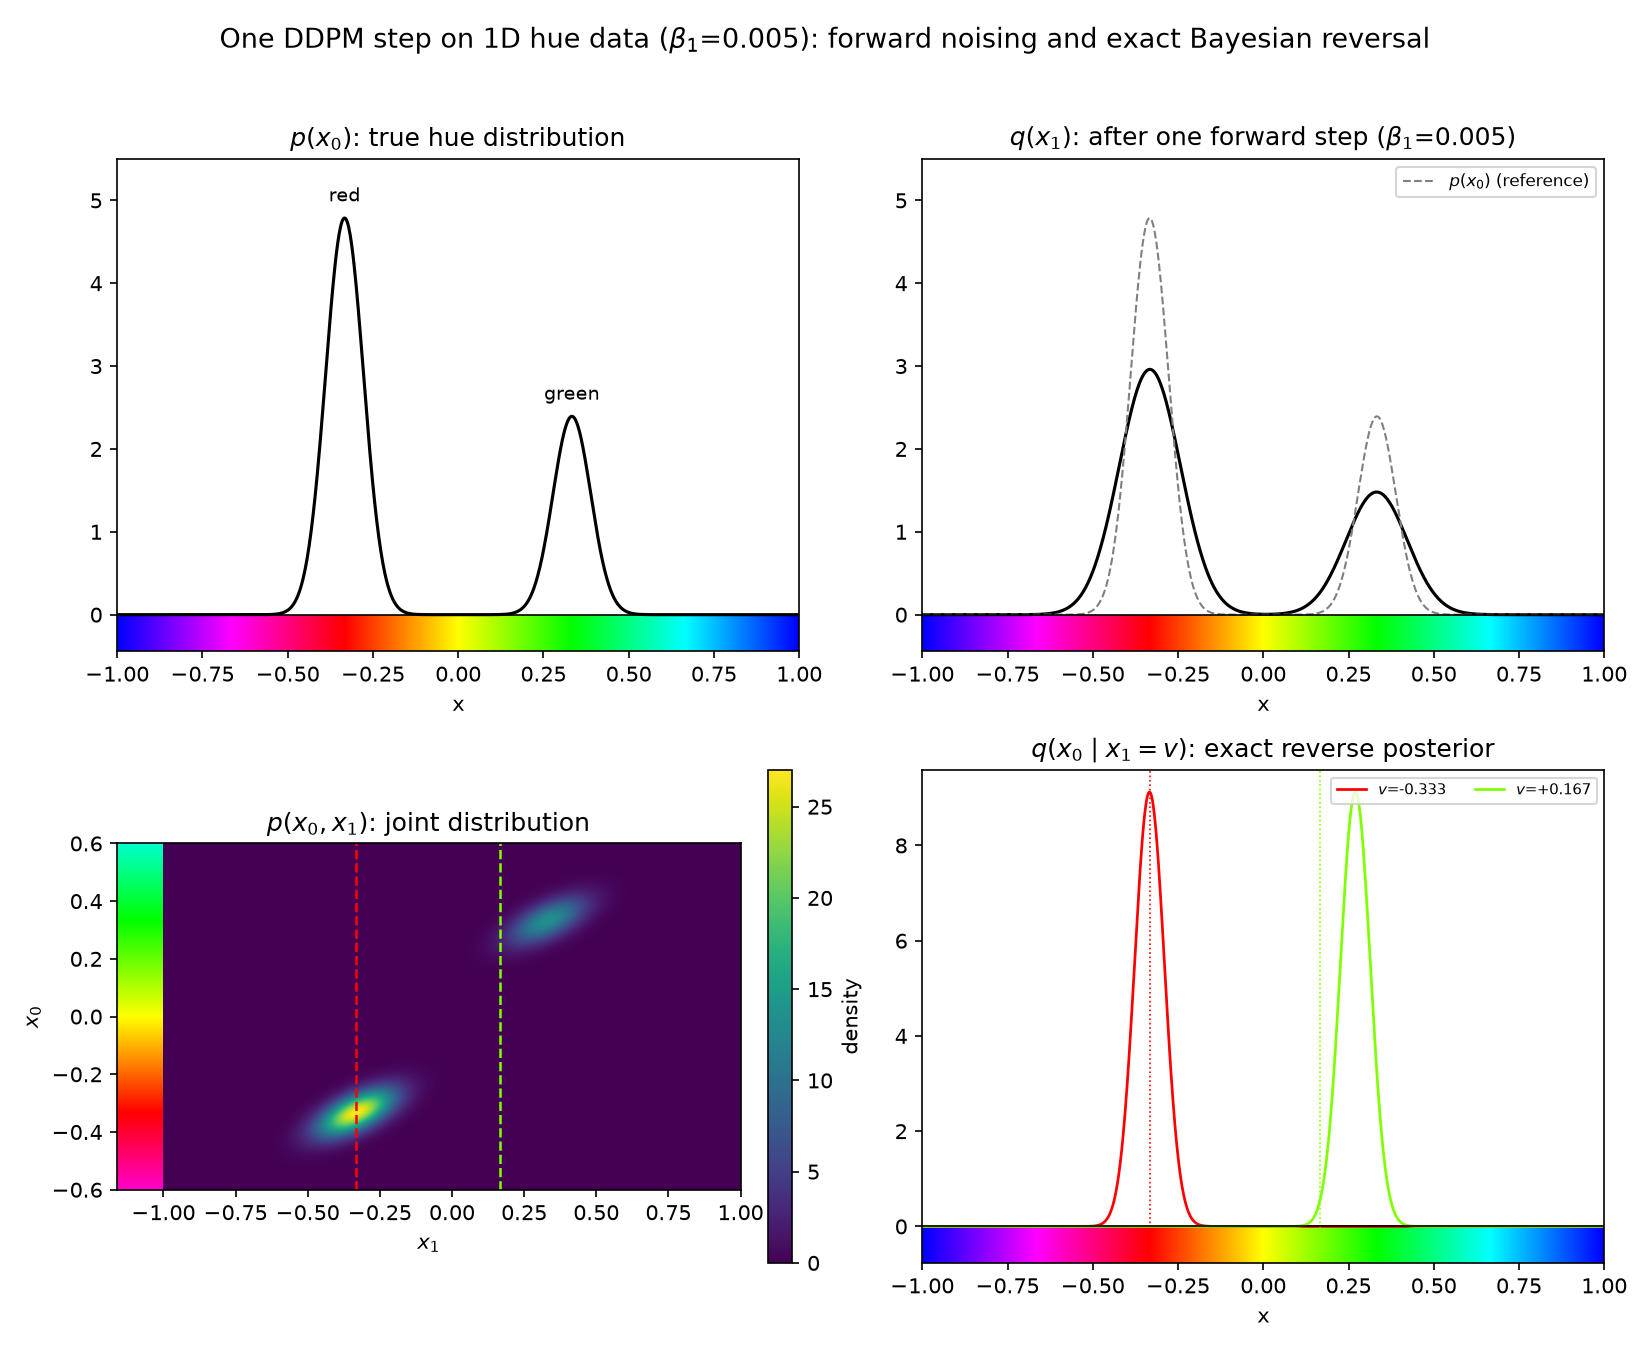
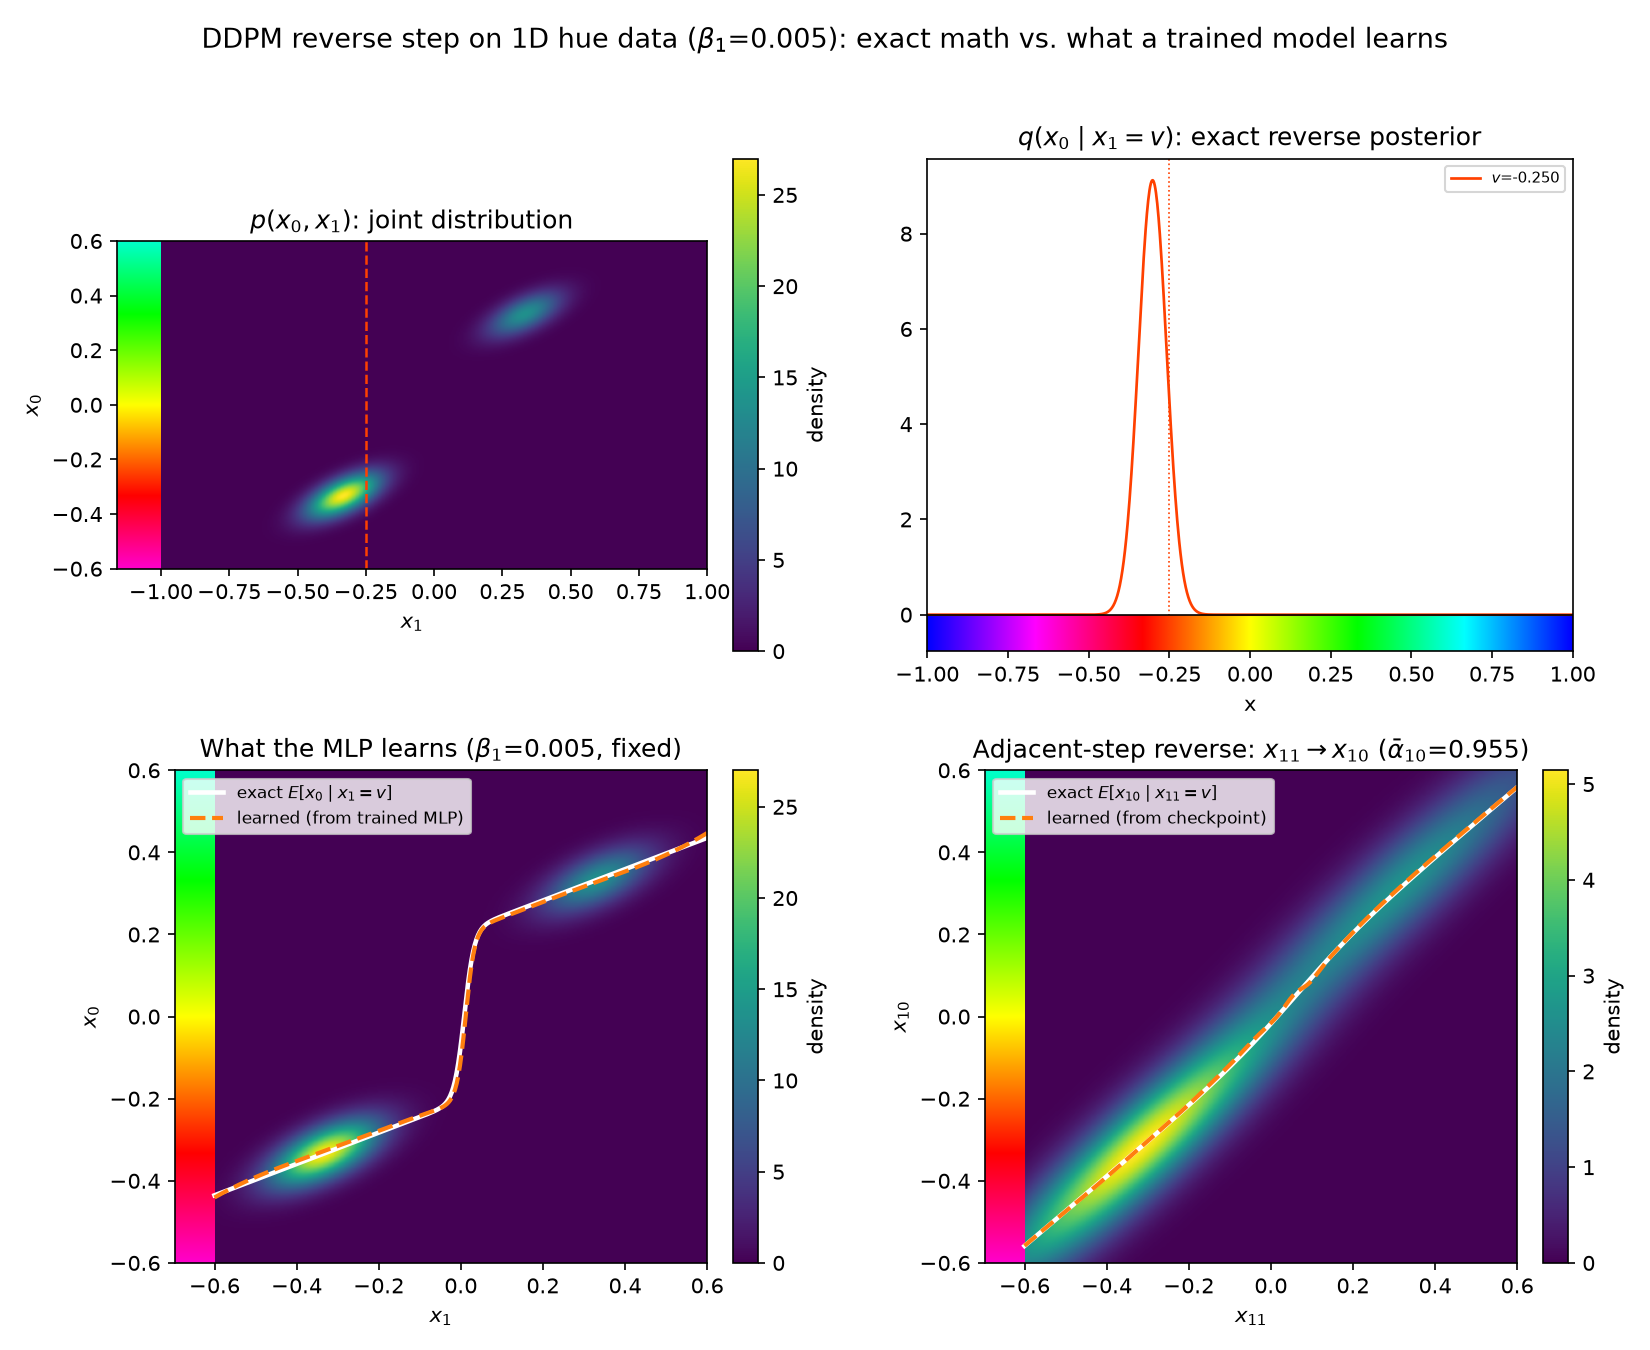
Replace step0_backward's top two panels with learned-vs-exact curve panels
New panel 1: p(x0,x1) joint (single example v=-0.25). New panel 2: exact
reverse posterior. New panels 3-4: the learned_curve_on_joint and
learned_curve_on_joint_adjacent comparisons (single-step MLP and the
full-schedule checkpoint's adjacent-step curve, t=10->11), placed below,
learned_curve_on_joint on the left. These two panels are independent of
beta1 -- they always retrain/reload their own fixed-noise-level models.

step0_forward_backward_large_noise.py no longer reuses step0_backward's
main(): panels 3-4 there are unrelated to its large-beta1 point, so it
keeps its own self-contained copy of the original 4-panel (p(x0), q(x1),
joint, posterior) layout instead.

diff --git a/step0_backward.py b/step0_backward.py
@@ -1,20 +1,31 @@
-"""Demo: one forward diffusion step on a 1D hue distribution, and why it can
-be reversed exactly when the data distribution is known.
+"""Demo: the exact reverse step on a 1D hue distribution, and what a trained
+model actually learns of it.
 
 Produces output/step0_backward.png with four panels:
-  1. p(x0)             -- the true hue distribution (red / green bumps)
-  2. q(x1)             -- after one forward noising step
-  3. p(x0, x1)         -- their joint distribution: a horizontal slice at
-                          x1=v (dashed lines, colors matching panel 4) is,
-                          once renormalized, exactly the posterior curve
-                          shown in panel 4 for that v.
-  4. q(x0 | x1=v)      -- exact reverse posterior, for several example v
+  1. p(x0, x1)         -- the joint distribution, sliced at x1=v (dashed
+                          line, color matching panel 2); once renormalized,
+                          that slice is exactly the posterior curve shown
+                          in panel 2 for that v.
+  2. q(x0 | x1=v)      -- exact reverse posterior, for a single example v
+  3. p(x0, x1)         -- same joint as panel 1, but overlaid with the
+                          exact E[x0|x1=v] curve and the curve implied by a
+                          freshly trained single-step MLP (learned_curve_on_joint.py)
+  4. p(x_t, x_{t+1})   -- joint for a pair of ADJACENT intermediate steps
+                          (t=10 -> 11) deep in the full T=100 schedule,
+                          overlaid with the exact and learned E[x_t|x_{t+1}]
+                          curves (learned_curve_on_joint_adjacent.py)
+
+Panels 3 and 4 are independent of the beta1 parameter below -- they always
+retrain/reload their own models at their own fixed noise level -- only
+panels 1 and 2 change shape with beta1.
 
 main() takes beta1 as a parameter (default matches the original demo
-value) so the same figure can be regenerated at other noise levels, e.g.
-step0_forward_backward_large_noise.py calls it with a deliberately too
-large beta1. The plotted x-range widens automatically with beta1, since a
-large beta1 spreads q(x1) far beyond the original data's range.
+value) so panels 1-2 can be regenerated at other noise levels; the plotted
+x1-range widens automatically with beta1, since a large beta1 spreads
+q(x1) far beyond the original data's range. (step0_forward_backward_large_noise.py
+no longer reuses this main() -- it kept its own copy of this script's
+pre-learned-curve 4-panel layout, since panels 3-4 here are unrelated to
+its large-beta1 point.)
 """
 
 import os
@@ -24,11 +35,21 @@ matplotlib.use("Agg")
 import matplotlib.pyplot as plt
 import numpy as np
 
-from ddpm_step import joint_pdf, marginal_x1_params, posterior_pdf
-from hue_gmm import MEANS, NAMES, STDS, gmm_pdf, normal_pdf, x_to_rgb
+import train_denoiser
+from ddpm_step import (
+    exact_conditional_mean_adjacent,
+    joint_pdf,
+    joint_pdf_adjacent,
+    posterior_mean_curve,
+    posterior_pdf,
+)
+from hue_gmm import MEANS, STDS, gmm_pdf, x_to_rgb
+from multistep_model import load_trained, make_inputs
+from schedule import ALPHA_BARS, ALPHAS, BETAS, T
 
 BETA1 = 0.005
 OUT_DIR = "output"
+T_STEP = 10  # examine the adjacent transition x_{T_STEP} -> x_{T_STEP+1}
 
 
 def hue_strip(ax, y0, y1, n=600):
@@ -56,38 +77,20 @@ def main(beta1=BETA1, out_path=None):
     os.makedirs(OUT_DIR, exist_ok=True)
     a1 = 1.0 - beta1
 
-    # Plot range for the 1D curve panels (p(x0), q(x1), reverse posterior):
-    # wide enough that q(x1) isn't clipped even when beta1 is large.
+    # Plot range for the reverse-posterior curve panel: wide enough that
+    # q(x1) isn't clipped even when beta1 is large.
     x1_std_est = np.sqrt(a1 * STDS.max() ** 2 + beta1)
     plot_range = max(1.0, np.abs(MEANS).max() * np.sqrt(a1) + 4.5 * x1_std_est)
     x_grid = np.linspace(-plot_range, plot_range, 1000)
+    p0 = gmm_pdf(x_grid)
 
     fig, axes = plt.subplots(2, 2, figsize=(11, 9))
 
-    # --- panel 1: p(x0) ---
-    ax = axes[0, 0]
-    p0 = gmm_pdf(x_grid)
-    ax.plot(x_grid, p0, color="black", linewidth=1.5)
-    setup_axis(ax, r"$p(x_0)$: true hue distribution", 1.15 * p0.max(), plot_range)
-    for mu, name in zip(MEANS, NAMES):
-        ax.annotate(name, (mu, gmm_pdf(np.array([mu]))[0]), textcoords="offset points",
-                    xytext=(0, 8), ha="center", fontsize=9)
-
-    # --- panel 2: q(x1) after one forward step ---
-    ax = axes[0, 1]
-    w1, m1, s1 = marginal_x1_params(beta1)
-    q1 = (w1 * normal_pdf(x_grid[..., None], m1, s1)).sum(-1)
-    ax.plot(x_grid, q1, color="black", linewidth=1.5)
-    ax.plot(x_grid, p0, color="gray", linewidth=1.0, linestyle="--", label=r"$p(x_0)$ (reference)")
-    setup_axis(ax, rf"$q(x_1)$: after one forward step ($\beta_1$={beta1:g})", 1.15 * max(p0.max(), q1.max()), plot_range)
-    ax.legend(fontsize=8, loc="upper right")
-
-    # --- compute exact reverse posterior curves (used by panels 3 and 4) ---
-    example_vs = [-1 / 3, 1 / 6]
+    example_vs = [-0.25]
     example_colors = [x_to_rgb(v) for v in example_vs]
 
-    # --- panel 3: joint distribution p(x0, x1) ---
-    ax = axes[1, 0]
+    # --- panel 1: joint distribution p(x0, x1) ---
+    ax = axes[0, 0]
     lim0 = 0.6  # x0's own range never changes with beta1
     lim1 = plot_range  # x1's range does
     grid0 = np.linspace(-lim0, lim0, 400)
@@ -108,18 +111,83 @@ def main(beta1=BETA1, out_path=None):
     ax.set_xlabel(r"$x_1$")
     ax.set_ylabel(r"$x_0$")
 
-    # --- panel 4: exact reverse posterior q(x0 | x1=v) for several v ---
-    ax = axes[1, 1]
-    ymax4 = p0.max()
+    # --- panel 2: exact reverse posterior q(x0 | x1=v) ---
+    ax = axes[0, 1]
+    ymax2 = p0.max()
     for v, color in zip(example_vs, example_colors):
         post = posterior_pdf(x_grid, v, beta1)
-        ymax4 = max(ymax4, post.max())
+        ymax2 = max(ymax2, post.max())
         ax.plot(x_grid, post, color=color, linewidth=1.3, label=rf"$v$={v:+.3f}")
         ax.axvline(v, color=color, linewidth=0.8, linestyle=":")
-    setup_axis(ax, r"$q(x_0 \mid x_1=v)$: exact reverse posterior", 1.05 * ymax4, plot_range)
+    setup_axis(ax, r"$q(x_0 \mid x_1=v)$: exact reverse posterior", 1.05 * ymax2, plot_range)
     ax.legend(fontsize=7, loc="upper right", ncol=2)
 
-    fig.suptitle(rf"One DDPM step on 1D hue data ($\beta_1$={beta1:g}): forward noising and exact Bayesian reversal",
+    # --- panel 3: learned_curve_on_joint -- single-step model vs. exact curve ---
+    ax = axes[1, 0]
+    rng = np.random.default_rng(0)
+    denoiser_model, denoiser_losses = train_denoiser.train(rng)
+    print(f"[panel 3] single-step model final training loss (mean of last 100 iters): "
+          f"{np.mean(denoiser_losses[-100:]):.4f}")
+
+    lc_grid = np.linspace(-lim0, lim0, 400)
+    lc_x0, lc_x1 = np.meshgrid(lc_grid, lc_grid, indexing="ij")
+    lc_joint = joint_pdf(lc_x0, lc_x1, train_denoiser.BETA1)
+    lc_v = np.linspace(-lim0, lim0, 300)
+    lc_exact = posterior_mean_curve(lc_v, train_denoiser.BETA1)
+    lc_eps_hat = denoiser_model.predict(lc_v[:, None])[:, 0]
+    lc_learned = (lc_v - np.sqrt(train_denoiser.BETA1) * lc_eps_hat) / np.sqrt(train_denoiser.A1)
+
+    strip_w3 = 0.08 * 2 * lim0
+    ax.set_xlim(-lim0 - strip_w3, lim0)
+    ax.set_ylim(-lim0, lim0)
+    im3 = ax.imshow(lc_joint, origin="lower", extent=[-lim0, lim0, -lim0, lim0], aspect="auto", cmap="viridis")
+    hue_strip_vertical(ax, -lim0 - strip_w3, -lim0)
+    ax.set_aspect("equal")
+    ax.plot(lc_v, lc_exact, color="white", linewidth=2.2, label=r"exact $E[x_0 \mid x_1=v]$")
+    ax.plot(lc_v, lc_learned, color="tab:orange", linewidth=2.0, linestyle="--",
+            label="learned (from trained MLP)")
+    fig.colorbar(im3, ax=ax, fraction=0.046, pad=0.04, label="density")
+    ax.set_xlabel(r"$x_1$")
+    ax.set_ylabel(r"$x_0$")
+    ax.set_title(rf"What the MLP learns ($\beta_1$={train_denoiser.BETA1:g}, fixed)")
+    ax.legend(fontsize=8, loc="upper left")
+
+    # --- panel 4: learned_curve_on_joint_adjacent -- multi-step model vs. exact curve ---
+    ax = axes[1, 1]
+    multistep = load_trained()
+
+    alpha_bar_t = ALPHA_BARS[T_STEP - 1]      # x_t's own cumulative signal fraction
+    alpha_tp1 = ALPHAS[T_STEP]                # single-step signal fraction, t -> t+1
+    beta_tp1 = BETAS[T_STEP]
+    alpha_bar_tp1 = ALPHA_BARS[T_STEP]        # x_{t+1}'s cumulative signal fraction
+
+    adj_grid = np.linspace(-lim0, lim0, 400)
+    x_t_grid, x_tp1_grid = np.meshgrid(adj_grid, adj_grid, indexing="ij")
+    adj_joint = joint_pdf_adjacent(x_t_grid, x_tp1_grid, alpha_bar_t, alpha_tp1)
+
+    adj_v = np.linspace(-lim0, lim0, 300)
+    adj_exact = exact_conditional_mean_adjacent(adj_v, alpha_bar_t, alpha_tp1)
+    t_norm = np.full_like(adj_v, (T_STEP + 1) / T)
+    adj_eps_hat = multistep.predict(make_inputs(adj_v, t_norm))[:, 0]
+    adj_learned = (adj_v - (beta_tp1 / np.sqrt(1.0 - alpha_bar_tp1)) * adj_eps_hat) / np.sqrt(alpha_tp1)
+
+    strip_w4 = 0.08 * 2 * lim0
+    ax.set_xlim(-lim0 - strip_w4, lim0)
+    ax.set_ylim(-lim0, lim0)
+    im4 = ax.imshow(adj_joint, origin="lower", extent=[-lim0, lim0, -lim0, lim0], aspect="auto", cmap="viridis")
+    hue_strip_vertical(ax, -lim0 - strip_w4, -lim0)
+    ax.set_aspect("equal")
+    ax.plot(adj_v, adj_exact, color="white", linewidth=2.2,
+            label=rf"exact $E[x_{{{T_STEP}}} \mid x_{{{T_STEP + 1}}}=v]$")
+    ax.plot(adj_v, adj_learned, color="tab:orange", linewidth=2.0, linestyle="--",
+            label="learned (from checkpoint)")
+    fig.colorbar(im4, ax=ax, fraction=0.046, pad=0.04, label="density")
+    ax.set_xlabel(rf"$x_{{{T_STEP + 1}}}$")
+    ax.set_ylabel(rf"$x_{{{T_STEP}}}$")
+    ax.set_title(rf"Adjacent-step reverse: $x_{{{T_STEP + 1}}} \to x_{{{T_STEP}}}$ ($\bar\alpha_{{{T_STEP}}}$={alpha_bar_t:.3f})")
+    ax.legend(fontsize=8, loc="upper left")
+
+    fig.suptitle(rf"DDPM reverse step on 1D hue data ($\beta_1$={beta1:g}): exact math vs. what a trained model learns",
                  fontsize=13)
     fig.tight_layout(rect=[0, 0, 1, 0.96])
 

diff --git a/step0_forward_backward_large_noise.py b/step0_forward_backward_large_noise.py
@@ -1,14 +1,126 @@
-"""Same figure as step0_backward.py, but with a deliberately too
-large beta1 -- showing what happens once the single-step-is-Gaussian
-assumption clearly breaks: q(x1) merges into one broad hump, and the exact
-reverse posterior stops depending much on v at all, collapsing toward the
-unconditional prior p(x0) (per the theoretical beta1->1 limit demonstrated
+"""Same 4-panel layout step0_backward.py used before it grew the
+learned-vs-exact-curve panels, but with a deliberately too large beta1 --
+showing what happens once the single-step-is-Gaussian assumption clearly
+breaks: q(x1) merges into one broad hump, and the exact reverse posterior
+stops depending much on v at all, collapsing toward the unconditional
+prior p(x0) (per the theoretical beta1->1 limit demonstrated
 quantitatively in beta1_sweep.py).
+
+Kept self-contained (not importing from step0_backward.py) since that
+script's panels 3-4 now show a fixed-noise-level learned-vs-exact
+comparison unrelated to this figure's large-beta1 point.
 """
 
-from step0_backward import main
+import os
+
+import matplotlib
+matplotlib.use("Agg")
+import matplotlib.pyplot as plt
+import numpy as np
+
+from ddpm_step import joint_pdf, marginal_x1_params, posterior_pdf
+from hue_gmm import MEANS, NAMES, STDS, gmm_pdf, normal_pdf, x_to_rgb
 
 LARGE_BETA1 = 0.3
+OUT_DIR = "output"
+
+
+def hue_strip(ax, y0, y1, n=600):
+    xs = np.linspace(*ax.get_xlim(), n)
+    colors = np.array([x_to_rgb(x) for x in xs])[None, :, :]
+    ax.imshow(colors, extent=[xs[0], xs[-1], y0, y1], aspect="auto", origin="lower", zorder=0)
+
+
+def hue_strip_vertical(ax, x0, x1, n=600):
+    ys = np.linspace(*ax.get_ylim(), n)
+    colors = np.array([x_to_rgb(v) for v in ys])[:, None, :]
+    ax.imshow(colors, extent=[x0, x1, ys[0], ys[-1]], aspect="auto", origin="lower", zorder=0)
+
+
+def setup_axis(ax, title, ymax, xlim):
+    ax.set_xlim(-xlim, xlim)
+    ax.set_ylim(-0.08 * ymax, ymax)
+    hue_strip(ax, -0.08 * ymax, 0.0)
+    ax.axhline(0.0, color="black", linewidth=0.8)
+    ax.set_title(title)
+    ax.set_xlabel("x")
+
+
+def main(beta1=LARGE_BETA1):
+    os.makedirs(OUT_DIR, exist_ok=True)
+    a1 = 1.0 - beta1
+
+    # Plot range for the 1D curve panels (p(x0), q(x1), reverse posterior):
+    # wide enough that q(x1) isn't clipped even when beta1 is large.
+    x1_std_est = np.sqrt(a1 * STDS.max() ** 2 + beta1)
+    plot_range = max(1.0, np.abs(MEANS).max() * np.sqrt(a1) + 4.5 * x1_std_est)
+    x_grid = np.linspace(-plot_range, plot_range, 1000)
+
+    fig, axes = plt.subplots(2, 2, figsize=(11, 9))
+
+    # --- panel 1: p(x0) ---
+    ax = axes[0, 0]
+    p0 = gmm_pdf(x_grid)
+    ax.plot(x_grid, p0, color="black", linewidth=1.5)
+    setup_axis(ax, r"$p(x_0)$: true hue distribution", 1.15 * p0.max(), plot_range)
+    for mu, name in zip(MEANS, NAMES):
+        ax.annotate(name, (mu, gmm_pdf(np.array([mu]))[0]), textcoords="offset points",
+                    xytext=(0, 8), ha="center", fontsize=9)
+
+    # --- panel 2: q(x1) after one forward step ---
+    ax = axes[0, 1]
+    w1, m1, s1 = marginal_x1_params(beta1)
+    q1 = (w1 * normal_pdf(x_grid[..., None], m1, s1)).sum(-1)
+    ax.plot(x_grid, q1, color="black", linewidth=1.5)
+    ax.plot(x_grid, p0, color="gray", linewidth=1.0, linestyle="--", label=r"$p(x_0)$ (reference)")
+    setup_axis(ax, rf"$q(x_1)$: after one forward step ($\beta_1$={beta1:g})", 1.15 * max(p0.max(), q1.max()), plot_range)
+    ax.legend(fontsize=8, loc="upper right")
+
+    # --- compute exact reverse posterior curves (used by panels 3 and 4) ---
+    example_vs = [-0.25]
+    example_colors = [x_to_rgb(v) for v in example_vs]
+
+    # --- panel 3: joint distribution p(x0, x1) ---
+    ax = axes[1, 0]
+    lim0 = 0.6  # x0's own range never changes with beta1
+    lim1 = plot_range  # x1's range does
+    grid0 = np.linspace(-lim0, lim0, 400)
+    grid1 = np.linspace(-lim1, lim1, 400)
+    x0_grid, x1_grid = np.meshgrid(grid0, grid1, indexing="ij")
+    joint = joint_pdf(x0_grid, x1_grid, beta1)
+
+    strip_w = 0.08 * 2 * lim1
+    ax.set_xlim(-lim1 - strip_w, lim1)
+    ax.set_ylim(-lim0, lim0)
+    im = ax.imshow(joint, origin="lower", extent=[-lim1, lim1, -lim0, lim0], aspect="auto", cmap="viridis")
+    hue_strip_vertical(ax, -lim1 - strip_w, -lim1)
+    ax.set_aspect("equal")
+    for v, color in zip(example_vs, example_colors):
+        ax.axvline(v, color=color, linewidth=1.2, linestyle="--")
+    fig.colorbar(im, ax=ax, fraction=0.046, pad=0.04, label="density")
+    ax.set_title(r"$p(x_0, x_1)$: joint distribution")
+    ax.set_xlabel(r"$x_1$")
+    ax.set_ylabel(r"$x_0$")
+
+    # --- panel 4: exact reverse posterior q(x0 | x1=v) ---
+    ax = axes[1, 1]
+    ymax4 = p0.max()
+    for v, color in zip(example_vs, example_colors):
+        post = posterior_pdf(x_grid, v, beta1)
+        ymax4 = max(ymax4, post.max())
+        ax.plot(x_grid, post, color=color, linewidth=1.3, label=rf"$v$={v:+.3f}")
+        ax.axvline(v, color=color, linewidth=0.8, linestyle=":")
+    setup_axis(ax, r"$q(x_0 \mid x_1=v)$: exact reverse posterior", 1.05 * ymax4, plot_range)
+    ax.legend(fontsize=7, loc="upper right", ncol=2)
+
+    fig.suptitle(rf"One DDPM step on 1D hue data ($\beta_1$={beta1:g}): forward noising and exact Bayesian reversal",
+                 fontsize=13)
+    fig.tight_layout(rect=[0, 0, 1, 0.96])
+
+    out_path = os.path.join(OUT_DIR, f"step0_forward_backward_beta{beta1:g}.png")
+    fig.savefig(out_path, dpi=150)
+    print(f"saved {out_path}")
+
 
 if __name__ == "__main__":
-    main(beta1=LARGE_BETA1)
+    main()
